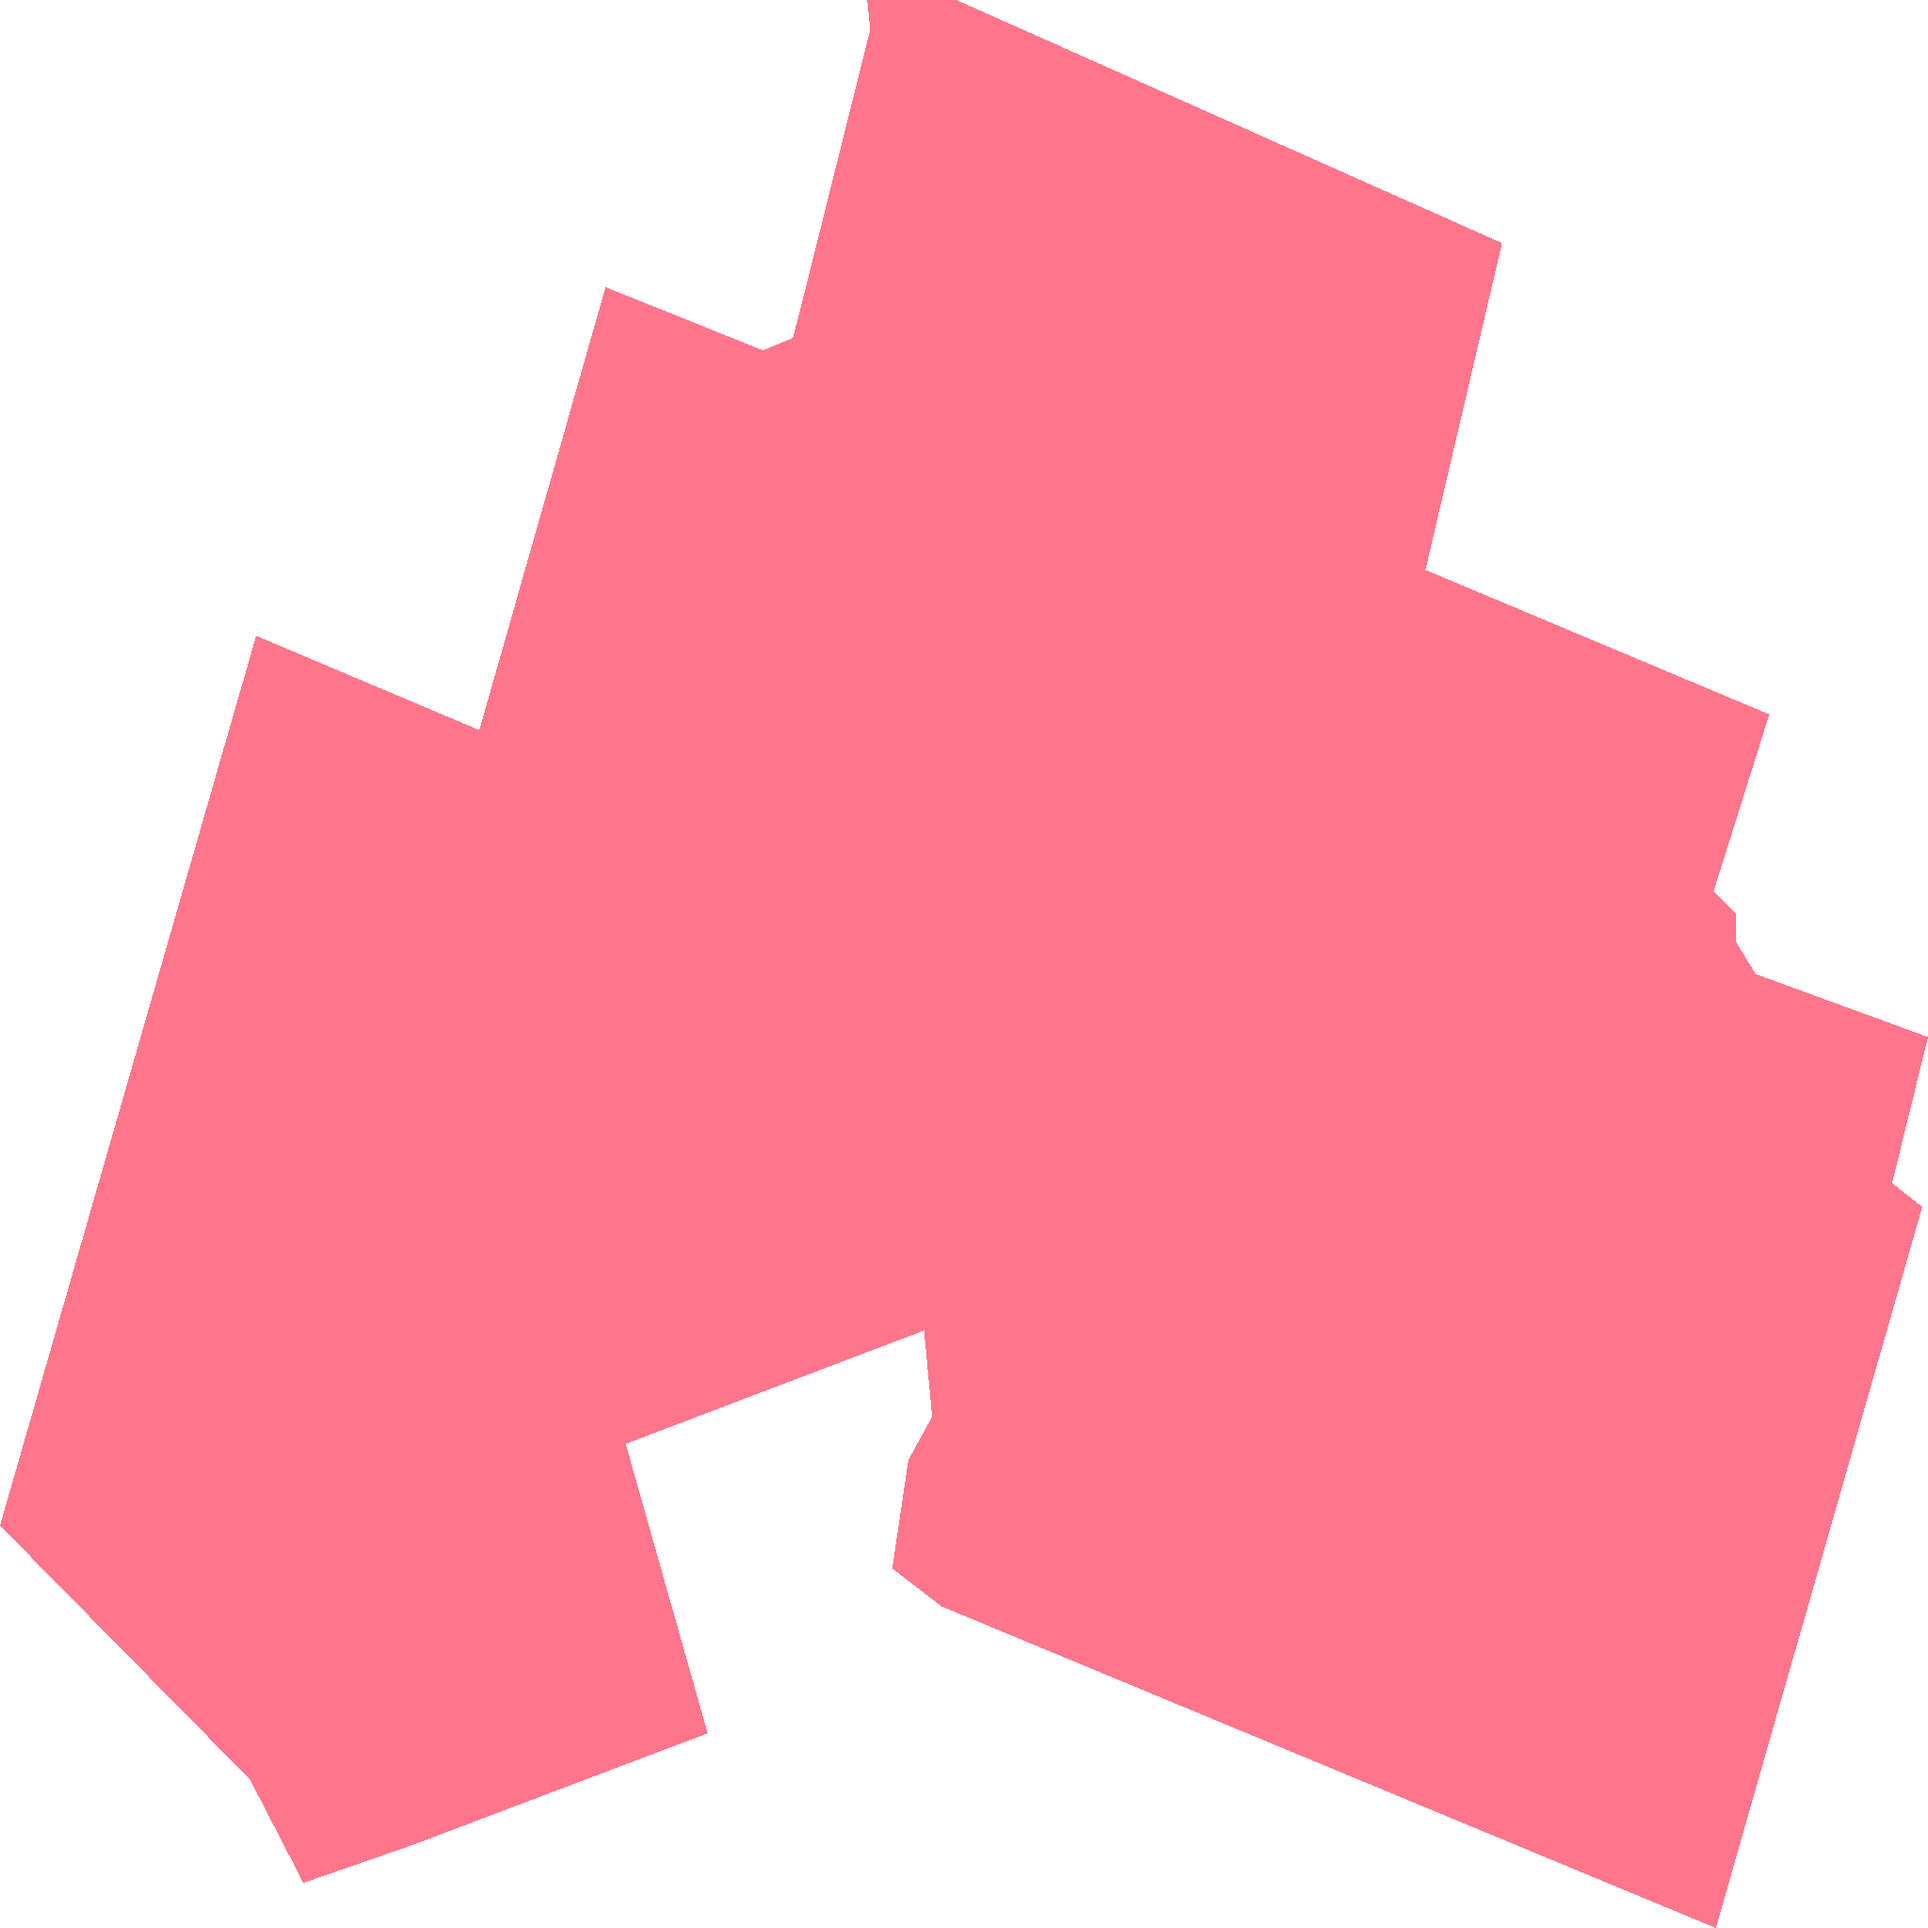
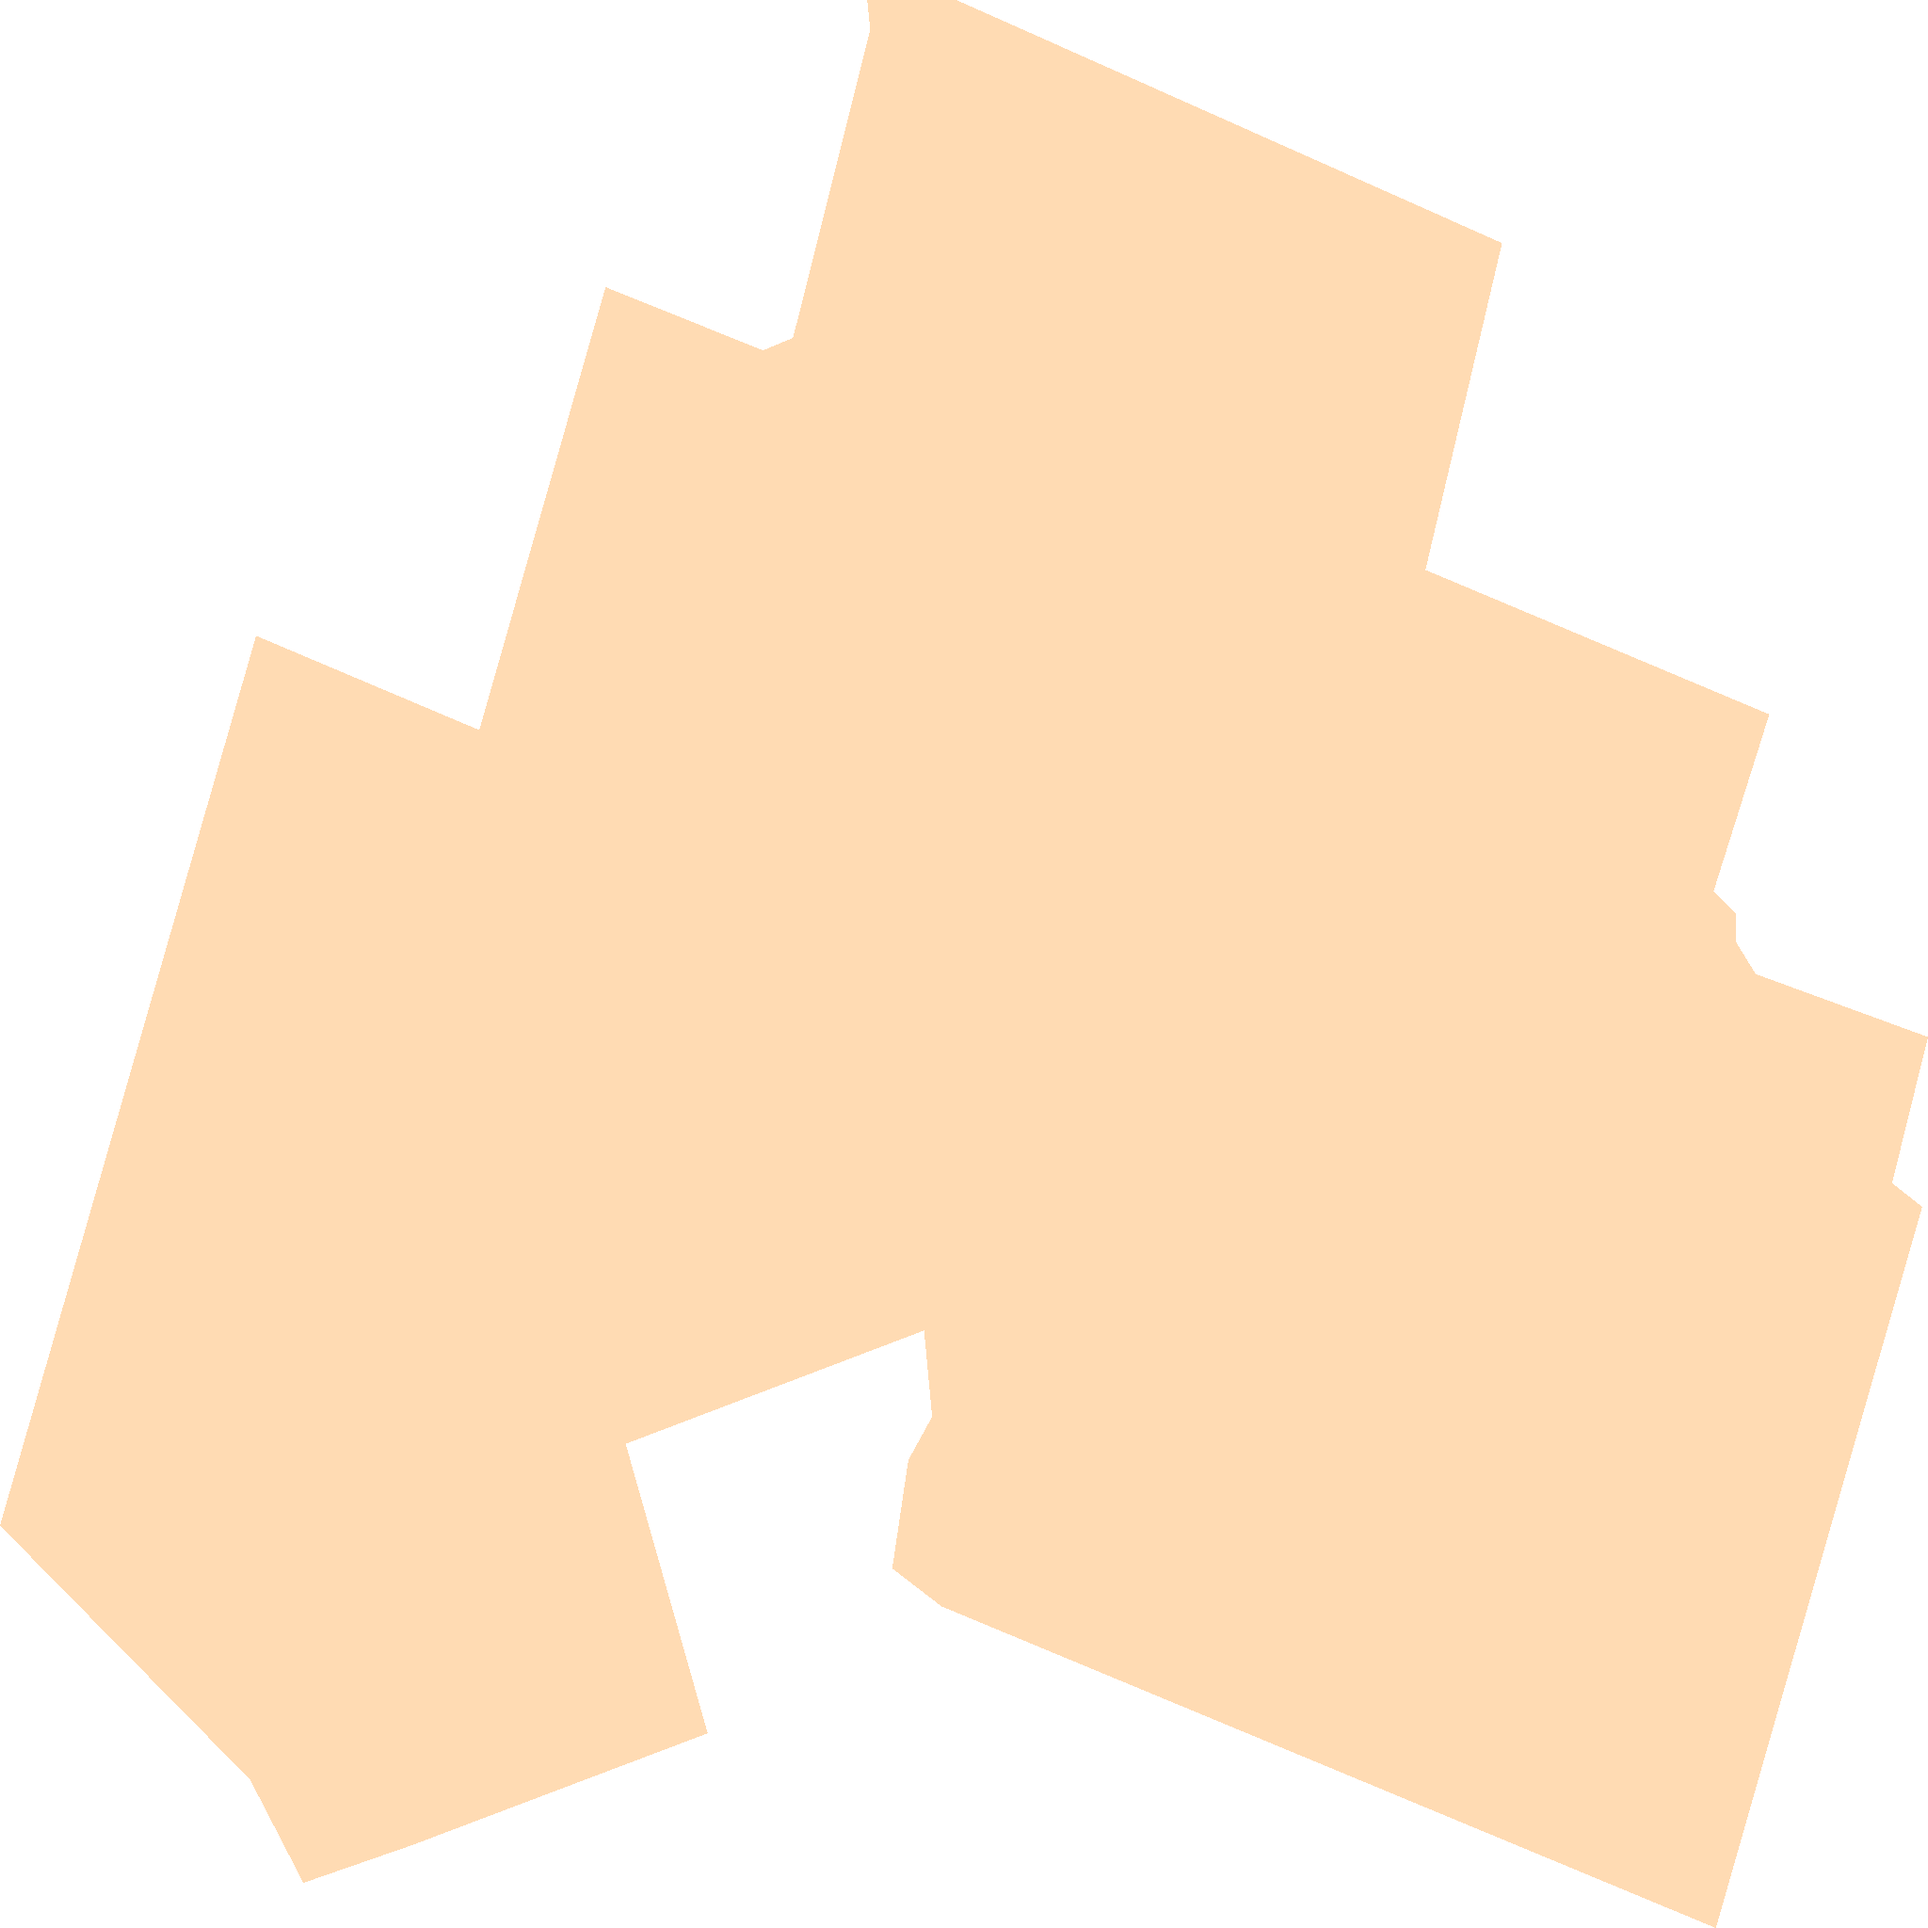
Karte sp_1378

diff --git a/sp_1378.html b/sp_1378.html
@@ -128,8 +128,9 @@
 <body>
     <div id="map"></div>
     <div id="legend">
-        <div><span style="display:inline-block; width:20px; height:10px; background:#FF7F00; margin-right:5px;"></span>Ausbauphase 1: Ausbau bei ausreichender Nachfrage</div>
+        <div><span style="display:inline-block; width:20px; height:10px; background:#FF7F00; margin-right:5px;"></span>Ausbauphase 1: Glasfasernetz vorhanden oder geplant</div>
         <div><span style="display:inline-block;width:20px; height:10px; background:#00143C; margin-right:5px;"></span>Ausbauphase 2: Interessenbekundung möglich</div>
+        <div><span style="display:inline-block;width:20px; height:10px; background:#FFC17D; margin-right:5px;"></span>Ausbauphase 3: Gefördertes Ausbaugebiet </div>
     </div>
     <script>
     const bounds = [[51.675775545, 7.851043629], [51.679249794, 7.857963862]];
